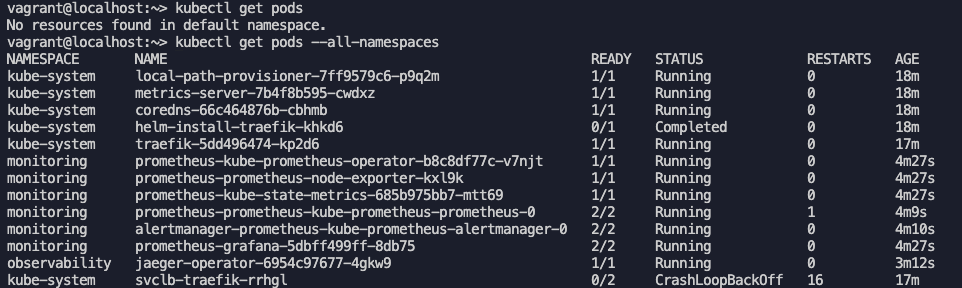
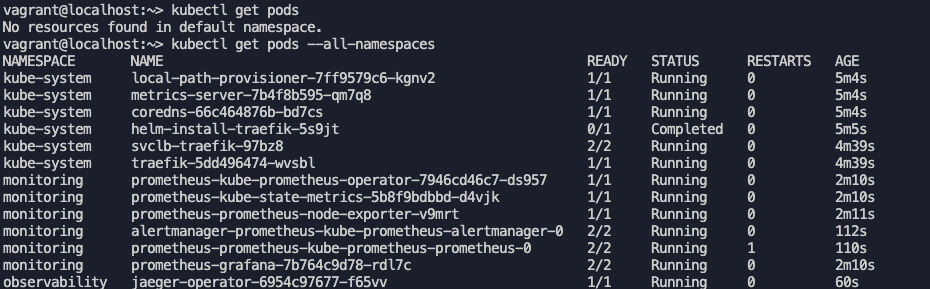
Updated screenshot and k3s

diff --git a/README.md b/README.md
@@ -8,27 +8,27 @@ screenshot: running_services.png
 
 vagrant@localhost:~> kubectl get pods
 No resources found in default namespace.
-vagrant@localhost:~> kubectl get pods --all-namespaces 
-NAMESPACE       NAME                                                     READY   STATUS             RESTARTS   AGE
-kube-system     local-path-provisioner-7ff9579c6-p9q2m                   1/1     Running            0          18m
-kube-system     metrics-server-7b4f8b595-cwdxz                           1/1     Running            0          18m
-kube-system     coredns-66c464876b-cbhmb                                 1/1     Running            0          18m
-kube-system     helm-install-traefik-khkd6                               0/1     Completed          0          18m
-kube-system     traefik-5dd496474-kp2d6                                  1/1     Running            0          17m
-monitoring      prometheus-kube-prometheus-operator-b8c8df77c-v7njt      1/1     Running            0          4m27s
-monitoring      prometheus-prometheus-node-exporter-kxl9k                1/1     Running            0          4m27s
-monitoring      prometheus-kube-state-metrics-685b975bb7-mtt69           1/1     Running            0          4m27s
-monitoring      prometheus-prometheus-kube-prometheus-prometheus-0       2/2     Running            1          4m9s
-monitoring      alertmanager-prometheus-kube-prometheus-alertmanager-0   2/2     Running            0          4m10s
-monitoring      prometheus-grafana-5dbff499ff-8db75                      2/2     Running            0          4m27s
-observability   jaeger-operator-6954c97677-4gkw9                         1/1     Running            0          3m12s
-kube-system     svclb-traefik-rrhgl                                      0/2     CrashLoopBackOff   16         17m
-
+vagrant@localhost:~> kubectl get pods --all-namespaces
+NAMESPACE       NAME                                                     READY   STATUS      RESTARTS   AGE
+kube-system     local-path-provisioner-7ff9579c6-kgnv2                   1/1     Running     0          5m4s
+kube-system     metrics-server-7b4f8b595-qm7q8                           1/1     Running     0          5m4s
+kube-system     coredns-66c464876b-bd7cs                                 1/1     Running     0          5m4s
+kube-system     helm-install-traefik-5s9jt                               0/1     Completed   0          5m5s
+kube-system     svclb-traefik-97bz8                                      2/2     Running     0          4m39s
+kube-system     traefik-5dd496474-wvsbl                                  1/1     Running     0          4m39s
+monitoring      prometheus-kube-prometheus-operator-7946cd46c7-ds957     1/1     Running     0          2m10s
+monitoring      prometheus-kube-state-metrics-5b8f9bdbbd-d4vjk           1/1     Running     0          2m10s
+monitoring      prometheus-prometheus-node-exporter-v9mrt                1/1     Running     0          2m11s
+monitoring      alertmanager-prometheus-kube-prometheus-alertmanager-0   2/2     Running     0          112s
+monitoring      prometheus-prometheus-kube-prometheus-prometheus-0       2/2     Running     1          110s
+monitoring      prometheus-grafana-7b764c9d78-rdl7c                      2/2     Running     0          2m10s
+observability   jaeger-operator-6954c97677-f65vv                         1/1     Running     0          60s
 ## Setup the Jaeger and Prometheus source
 *TODO:* Expose Grafana to the internet and then setup Prometheus as a data source. Provide a screenshot of the home page after logging into Grafana.
 
 ## Create a Basic Dashboard
 *TODO:* Create a dashboard in Grafana that shows Prometheus as a source. Take a screenshot and include it here.
+
 
 ## Describe SLO/SLI
 *TODO:* Describe, in your own words, what the SLIs are, based on an SLO of *monthly uptime* and *request response time*.
